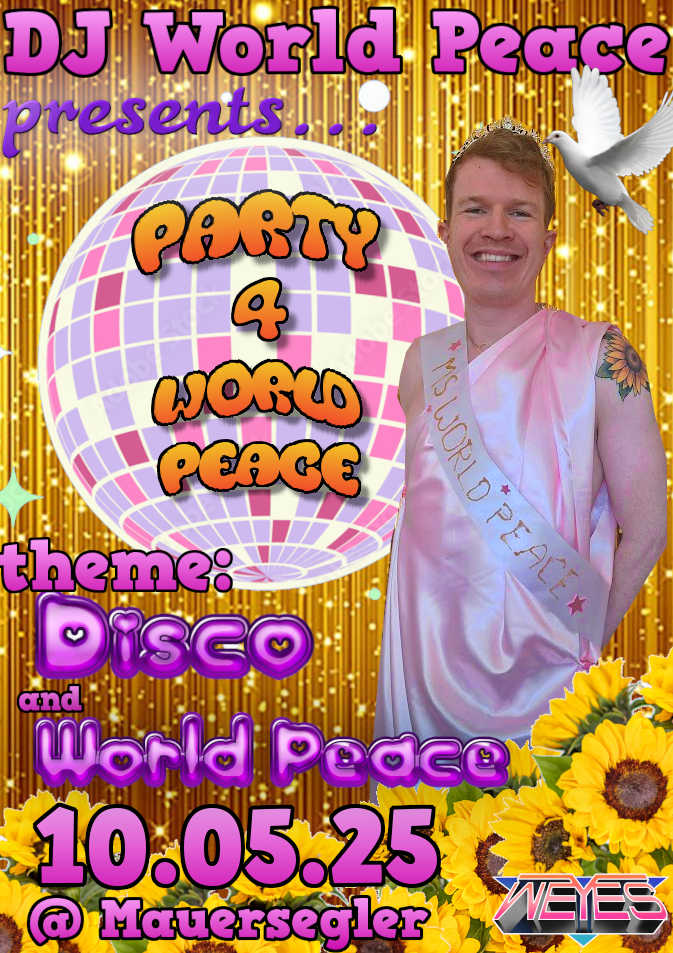
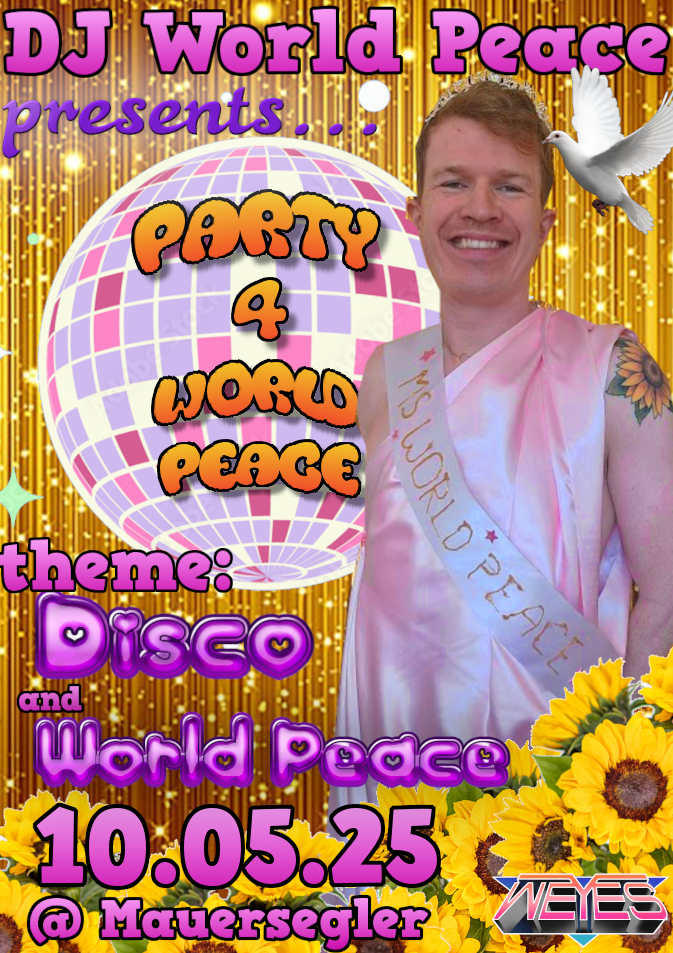
fixed at least the party page

Changed region(s): [[0.4993, 0.0609, 1.0, 0.7912], [0.4681, 0.9129, 0.5617, 0.9738], [0.4681, 0.8216, 0.5617, 0.8825]]

diff --git a/src/app/homepage/party/party.component.css b/src/app/homepage/party/party.component.css
@@ -25,8 +25,17 @@
 
 .leaflet {
   display: flex;
-  justify-content: center;
-  margin: 20px;
+  justify-content: center; /* Centers the image horizontally */
+  align-items: center; /* Centers the image vertically */
+  max-width: 100%; /* Ensures the container doesn't exceed the parent's width */
+  height: auto; /* Allows the container to adjust its height based on content */
+  width: 100%; /* Make the container full-width for better responsiveness */
+}
+
+.leaflet img {
+  max-width: 100%; /* Ensures the image doesn't exceed the container's width */
+  height: auto; /* Maintains the aspect ratio of the image */
+  margin: auto; /* Optional, but can help with centering if needed */
 }
 
 .pics-container {
